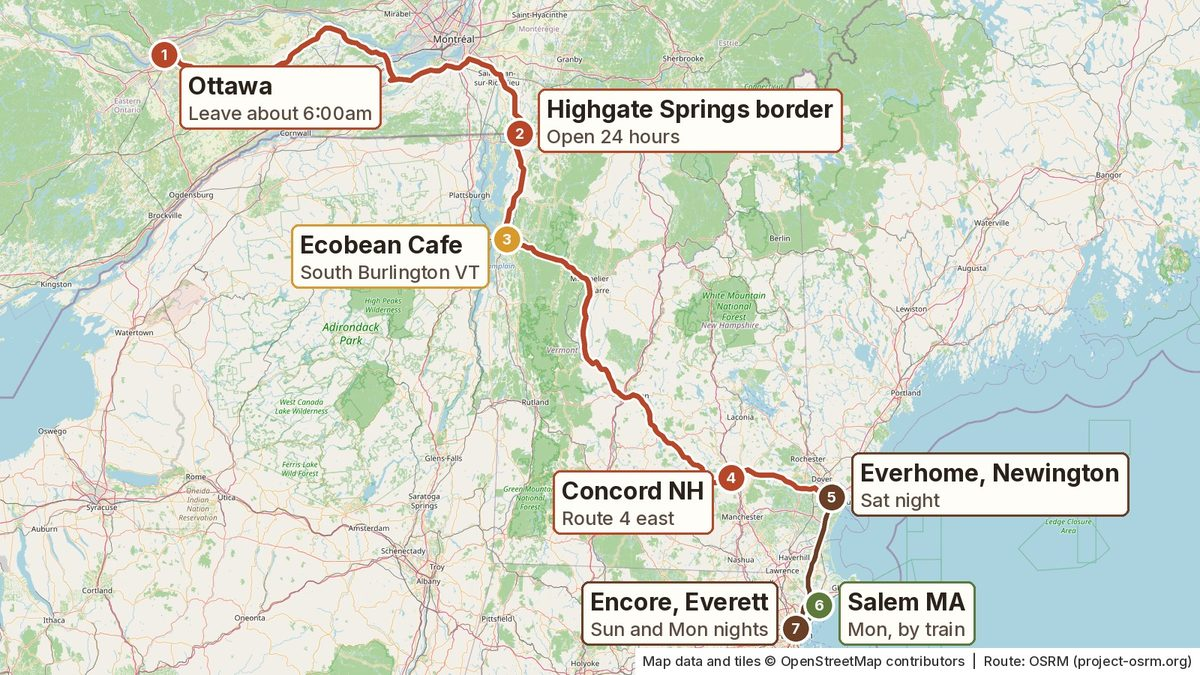
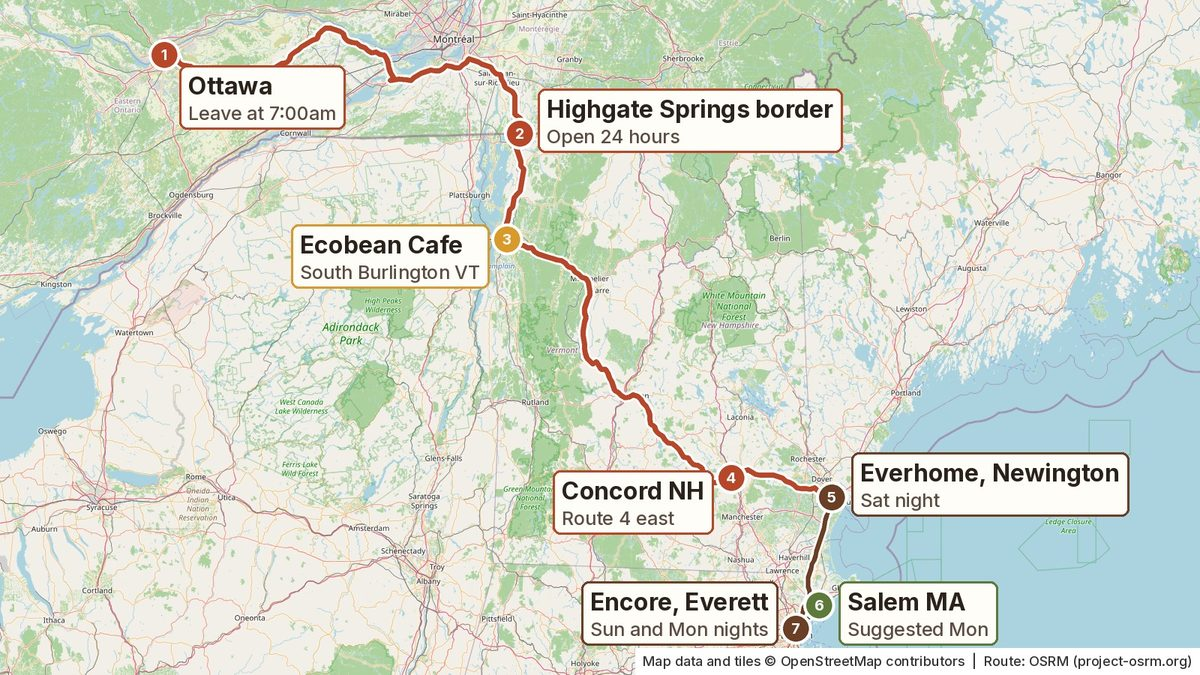
Update page 2026-10-02

Changed region(s): [[0.7092, 0.84, 0.8325, 0.9644], [0.2158, 0.0933, 0.3392, 0.2178]]

diff --git a/index.html b/index.html
@@ -117,19 +117,18 @@ footer button{font:inherit;font-weight:700;padding:10px 16px;border-radius:10px;
 
 <section id="sat" class="day">
   <h2><span class="dot rust">SAT<b>10</b></span> Ottawa to Portsmouth</h2>
-  <p class="sub"><span class="tag est">All times are estimates</span> Check Google Maps the night before.</p>
   <ol class="tl">
-<li><span class="time">6:00am</span><div><b>Leave Ottawa</b><p>Take the 417 to Montreal, then the A30 and A35 south.</p></div></li>
-<li><span class="time">Est.</span><div><b>Cross at Philipsburg QC / Highgate Springs VT <a class="map" href="https://www.google.com/maps/search/?api=1&amp;query=Philipsburg+QC+Highgate+Springs+VT+border" target="_blank" rel="noopener">Map</a></b><p>Open 24 hours. Budget 20 to 45 minutes. Then I-89 south.</p></div></li>
-<li><span class="time">Est. 10:00 to 10:45am</span><div><b>Ecobean Cafe <a class="map" href="https://www.google.com/maps/search/?api=1&amp;query=150+Dorset+St%2C+Suite+304%2C+South+Burlington+VT+05403" target="_blank" rel="noopener">Map</a></b><p>3.5 to 4 hr from Ottawa plus the border. Just off I-89 exit 14. Stop about 30 to 45 min.</p></div></li>
+<li><span class="time">7:00am</span><div><b>Leave Ottawa</b><p>Take the 417 to Montreal, then the A30 and A35 south.</p></div></li>
+<li><span class="time">Est. 10:15 to 11:00am</span><div><b>Cross at Philipsburg QC / Highgate Springs VT <a class="map" href="https://www.google.com/maps/search/?api=1&amp;query=Philipsburg+QC+Highgate+Springs+VT+border" target="_blank" rel="noopener">Map</a></b><p>Open 24 hours. Budget 20 to 45 minutes. Then I-89 south.</p></div></li>
+<li><span class="time">Est. 11:00 to 11:45am</span><div><b>Ecobean Cafe <a class="map" href="https://www.google.com/maps/search/?api=1&amp;query=150+Dorset+St%2C+Suite+304%2C+South+Burlington+VT+05403" target="_blank" rel="noopener">Map</a></b><p>3.5 to 4 hr from Ottawa plus the border. Just off I-89 exit 14. Stop about 30 to 45 min.</p></div></li>
 <li><span class="time">Est. 3 to 3.5 hr</span><div><b>I-89 south to Concord NH, then Route 4 east</b><p>On to Portsmouth and Newington.</p></div></li>
-<li><span class="time">Est. 2:00pm</span><div><b>Arrive at Everhome Suites <a class="map" href="https://www.google.com/maps/search/?api=1&amp;query=Everhome+Suites%2C+2109+Woodbury+Ave%2C+Newington+NH" target="_blank" rel="noopener">Map</a></b><p>Target arrival. Check-in is 3:00pm.</p></div></li>
-<li><span class="time">Est. 3:30pm</span><div><b>USS Albacore <a class="map" href="https://www.google.com/maps/search/?api=1&amp;query=Albacore+Park%2C+569+Submarine+Way%2C+Portsmouth+NH" target="_blank" rel="noopener">Map</a></b><p>About 15 to 20 min drive from the hotel. Aim to be aboard by about 3:30pm. Done by about 4:15 to 4:30pm. Closes 5pm.</p></div></li>
+<li><span class="time">Est. 3:00pm</span><div><b>Arrive at Everhome Suites <a class="map" href="https://www.google.com/maps/search/?api=1&amp;query=Everhome+Suites%2C+2109+Woodbury+Ave%2C+Newington+NH" target="_blank" rel="noopener">Map</a></b><p>Target arrival is about the same time as check-in, 3:00pm.</p></div></li>
+<li><span class="time">Est. 4:30pm</span><div><b>USS Albacore <a class="map" href="https://www.google.com/maps/search/?api=1&amp;query=Albacore+Park%2C+569+Submarine+Way%2C+Portsmouth+NH" target="_blank" rel="noopener">Map</a></b><p>About 15 to 20 min from the hotel. Aim to be aboard by about 4:30pm. It closes at 5pm, so the visit is short.</p></div></li>
 <li><span class="time">5:30pm</span><div><b>Dinner at 110 Grill <a class="map" href="https://www.google.com/maps/search/?api=1&amp;query=110+Grill%2C+103+Hanover+St%2C+Portsmouth+NH+03801" target="_blank" rel="noopener">Map</a></b><p>About 5 min from the Albacore. Reserved.</p></div></li>
 </ol>
   <div class="card tip"><h3>🛂 Border tips</h3><ul class=""><li>Oct 10 is Canadian Thanksgiving weekend. Expect heavier southbound traffic.</li><li>Budget 20 to 45 minutes at the border.</li><li>Check the live Highgate Springs wait at <a href="https://bwt.cbp.gov/" target="_blank" rel="noopener">bwt.cbp.gov</a> before leaving.</li><li>Backup: A15 to Lacolle / Champlain <a class="map" href="https://www.google.com/maps/search/?api=1&amp;query=Lacolle+QC+Champlain+NY+border+crossing" target="_blank" rel="noopener">Map</a>, then US-2 across into Burlington. Adds about 20 to 30 minutes.</li></ul></div>
   <div class="card "><h3>☕ Ecobean Cafe</h3><ul class=""><li><a class="map" href="https://www.google.com/maps/search/?api=1&amp;query=150+Dorset+St%2C+Suite+304%2C+South+Burlington+VT+05403" target="_blank" rel="noopener">150 Dorset St, Suite 304, South Burlington VT 05403</a></li><li>Sat 9am to 7pm. Closed Sunday.</li><li>Organic coffee, smoothies, bowls, breakfast.</li><li><a class="tel" href="tel:+18024970510">802-497-0510</a>. No phone orders. Order online at <a href="https://ecobeancafe.com/" target="_blank" rel="noopener">ecobeancafe.com</a>.</li></ul></div>
-  <div class="card "><h3>⚓ USS Albacore</h3><ul class=""><li><a class="map" href="https://www.google.com/maps/search/?api=1&amp;query=Albacore+Park%2C+569+Submarine+Way%2C+Portsmouth+NH" target="_blank" rel="noopener">Albacore Park, 569 Submarine Way, Portsmouth NH</a></li><li>Open 9:30am to 5:00pm on Sat Oct 10.</li><li>Ages 13+: $14. Both kids are 13+, so $14 each ($56 for 4).</li><li><b>Not booked yet.</b></li><li>If hotel arrival slips past about 4:15pm, skip it. Sunday at 9:30am is the backup. That pushes the Constitution later.</li></ul></div>
+  <div class="card "><h3>⚓ USS Albacore</h3><ul class=""><li><a class="map" href="https://www.google.com/maps/search/?api=1&amp;query=Albacore+Park%2C+569+Submarine+Way%2C+Portsmouth+NH" target="_blank" rel="noopener">Albacore Park, 569 Submarine Way, Portsmouth NH</a></li><li>Open 9:30am to 5:00pm on Sat Oct 10.</li><li>Ages 13+: $14. Both kids are 13+, so $14 each ($56 for 4).</li><li><b>Not booked yet.</b></li><li>If you will not reach the Albacore by about 4:30pm, skip it. Sunday at 9:30am is the backup. That pushes the Constitution later.</li></ul></div>
   <div class="card accent-rust"><h3>🍽 Dinner: 110 Grill Portsmouth, 5:30pm <span class="tag ok">Reserved</span></h3><ul class=""><li><a class="map" href="https://www.google.com/maps/search/?api=1&amp;query=103+Hanover+St%2C+Portsmouth+NH+03801" target="_blank" rel="noopener">103 Hanover St (Portwalk Place), Portsmouth NH 03801</a></li><li><a class="tel" href="tel:+16033738312">(603) 373-8312</a> · Sat 11:30am to 10pm</li><li>Party of 4. Booked, confirmation in email. No deposit.</li><li>100% of the core menu can be made gluten free.</li><li>AllergyEats allergy-friendly. The manager on staff handles allergy orders.</li><li><b>Say dairy-free, gluten-free and soy-free when ordering.</b></li></ul></div>
   <figure><a href="portsmouth.jpg" target="_blank" rel="noopener"><img src="portsmouth.jpg" alt="Portsmouth area map: Everhome Suites, USS Albacore, 110 Grill" width="1000" height="640" loading="lazy"></a><figcaption>Tap the map to enlarge. Map data © OpenStreetMap contributors.</figcaption></figure>
 </section>
@@ -137,7 +136,6 @@ footer button{font:inherit;font-weight:700;padding:10px 16px;border-radius:10px;
 
 <section id="sun" class="day">
   <h2><span class="dot brown">SUN<b>11</b></span> Portsmouth, then Boston, then Encore</h2>
-  <p class="sub"><span class="tag est">Times are estimates</span> Check Google Maps the night before.</p>
   <ol class="tl">
 <li><span class="time">10:30 to 11:00am</span><div><b>Leave Portsmouth</b><p>Everhome checkout is 11am.</p></div></li>
 <li><span class="time">Est. 1 to 1.25 hr</span><div><b>USS Constitution <a class="map" href="https://www.google.com/maps/search/?api=1&amp;query=USS+Constitution%2C+Charlestown+Navy+Yard%2C+Boston+MA" target="_blank" rel="noopener">Map</a></b><p>Park at Nautica Garage <a class="map" href="https://www.google.com/maps/search/?api=1&amp;query=Nautica+Parking+Garage%2C+88+Constitution+Rd%2C+Charlestown+MA" target="_blank" rel="noopener">Map</a>. Spend about 1 to 1.5 hr at the ship and the Navy Yard.</p></div></li>
@@ -160,7 +158,7 @@ footer button{font:inherit;font-weight:700;padding:10px 16px;border-radius:10px;
 
 <section id="mon" class="day">
   <h2><span class="dot olive">MON<b>12</b></span> Salem by commuter rail</h2>
-  <p class="sub"><span class="tag ok">Weekday train schedule</span> US holiday. Train times from the MBTA. Other times are estimates.</p>
+  <p class="sub"><span class="tag ok">Weekday train schedule</span> US holiday. Train times from the MBTA.</p>
   <ol class="tl">
 <li><span class="time">Est. 8:50am</span><div><b>Leave the truck at Encore <a class="map" href="https://www.google.com/maps/search/?api=1&amp;query=Encore+Boston+Harbor%2C+1+Broadway%2C+Everett+MA" target="_blank" rel="noopener">Map</a></b><p>J1772 Level 2 in the self-park garage. Rideshare about 10 min to Chelsea station, 174 Everett Ave <a class="map" href="https://www.google.com/maps/search/?api=1&amp;query=Chelsea+station%2C+174+Everett+Ave%2C+Chelsea+MA" target="_blank" rel="noopener">Map</a>.</p></div></li>
 <li><span class="time">9:16am</span><div><b>Train from Chelsea to Salem (Train 27)</b><p>Suggested. Arrives Salem 9:37am. About 21 min.</p></div></li>
@@ -238,7 +236,7 @@ footer button{font:inherit;font-weight:700;padding:10px 16px;border-radius:10px;
 
 </main>
 <footer>
-  <p>Last updated Oct 2, 2026. Times marked Est. are estimates. Check hours and train times before you go.</p>
+  <p>Last updated Oct 2, 2026. Check hours and train times before you go.</p>
   <p>Map data © OpenStreetMap contributors. Routes: OSRM. Rail: MBTA.</p>
   <p class="noprint"><button onclick="window.print()">Print or save as PDF</button></p>
 </footer>
